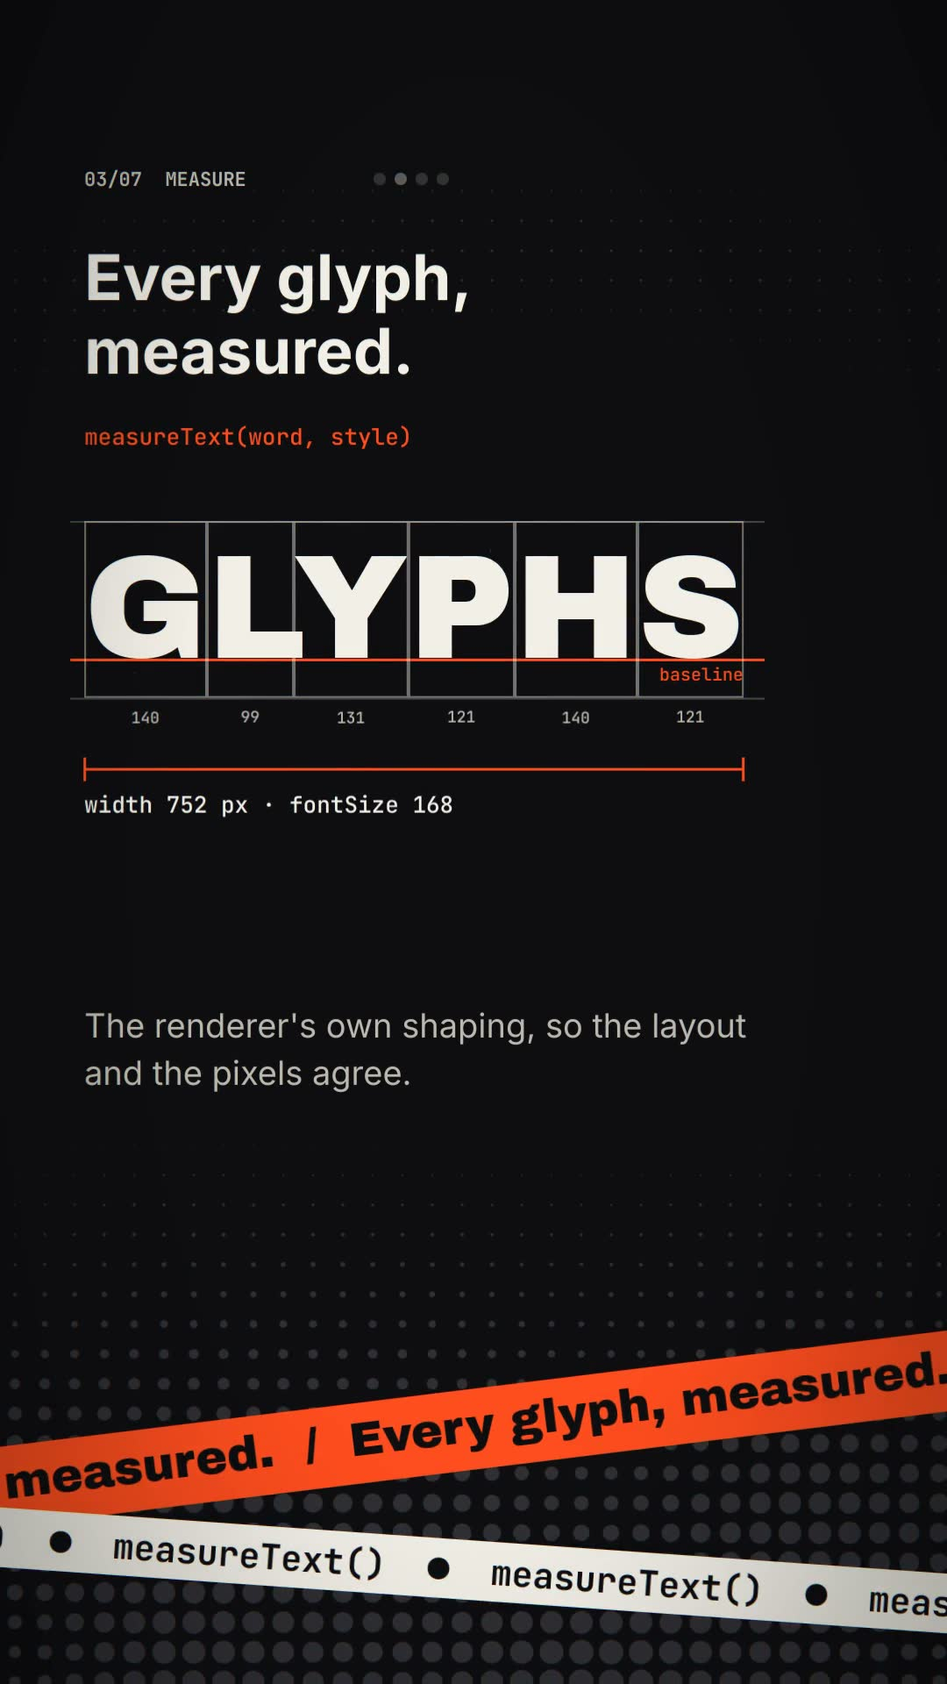
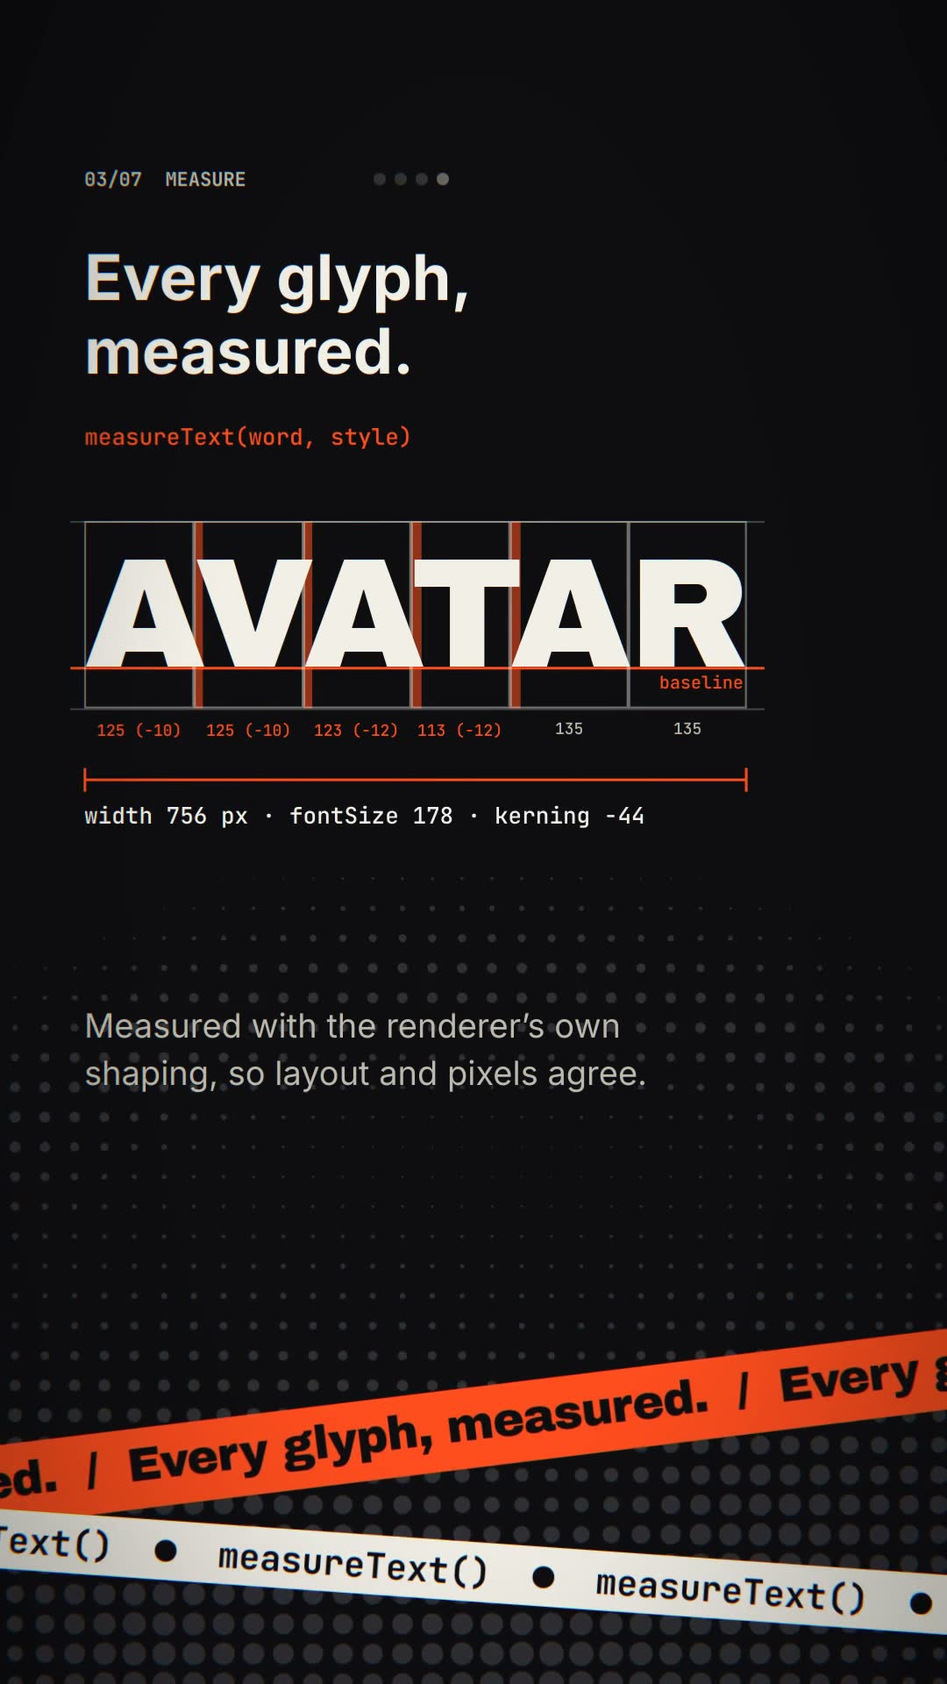
docs(examples): tune shorts-type-en for English type
- Track display type in by 2% of its size; letterSpacing is in pixels, so
  each fit runs twice and the line is drawn with the tracking it was
  measured with.
- Set the hook (and the outro it loops into) as WRITE YOUR / VIDEO IN /
  CODE., so the fitted lines grow from line to line.
- Swap KERN for AVATAR in the measurement scene and mark what kerning
  takes back: each glyph is also measured alone.
- Centre the fitted copy in its box, give the highlights more room and let
  a lit word take its trailing punctuation, and use a typographic
  apostrophe in a complete sentence.

diff --git a/examples/shorts-type-en/measure.ts b/examples/shorts-type-en/measure.ts
@@ -11,14 +11,19 @@ import { textStyle } from './components/Copy';
 // about 0.86 em wide, Inter about 0.55 em) that the measurement replaces.
 
 const fonts = [FONT_SRC];
-const DISPLAY: FitTextStyle = { fontFamily: FONT.display, fontWeight: 400 };
+// Display type is tracked in by 2% of its size, as large headlines usually
+// are. letterSpacing is in pixels, so a fit runs twice: once to find the
+// size, then again with the tracking that size implies. The second size is
+// the one drawn, with exactly the tracking it was measured with.
+const TRACK = -0.02;
+const display = (tracking = 0): FitTextStyle => ({ fontFamily: FONT.display, fontWeight: 400, letterSpacing: tracking });
 
 // A headline line set as large as the column allows, up to `max`.
-export type Line = { text: string; accent?: string; size: number; width: number };
+export type Line = { text: string; accent?: string; size: number; width: number; tracking: number };
 
 function estimateLine(text: string, max: number, width: number = COL.width): Line {
-  const size = Math.min(max, Math.floor(width / (text.length * 0.86)));
-  return { text, size, width: text.length * size * 0.86 };
+  const size = Math.min(max, Math.floor(width / (text.length * 0.84)));
+  return { text, size, width: text.length * size * 0.84, tracking: TRACK * size };
 }
 
 function lines(spec: [text: string, max: number, accent?: string][], width: number = COL.width): Line[] {
@@ -26,19 +31,21 @@ function lines(spec: [text: string, max: number, accent?: string][], width: numb
 }
 
 async function fitLine(line: Line, max: number, width: number = COL.width): Promise<Line> {
-  const fit = await fitText(line.text, {
-    width, height: 4000, minFontSize: 40, maxFontSize: max, maxLines: 1, step: 2, style: DISPLAY, fonts,
+  const fit = (tracking: number) => fitText(line.text, {
+    width, height: 4000, minFontSize: 40, maxFontSize: max, maxLines: 1, step: 2, style: display(tracking), fonts,
   });
-  return { ...line, size: fit.fontSize, width: fit.metrics.width };
+  const first = await fit(0);
+  const tracking = TRACK * first.fontSize;
+  const second = await fit(tracking);
+  return { ...line, size: second.fontSize, width: second.metrics.width, tracking };
 }
 
-// Stacked headlines: each line fitted to the column on its own.
-const HOOK_SPEC: [string, number, string?][] = [['WRITE', 240], ['VIDEO', 240], ['IN CODE.', 240, 'CODE']];
+// Stacked headlines: each line fitted to the column on its own, so a short
+// line comes out large and a long one small.
+const HOOK_SPEC: [string, number, string?][] = [['WRITE YOUR', 240], ['VIDEO IN', 240], ['CODE.', 260, 'CODE']];
 const FRAME_SPEC: [string, number, string?][] = [['A FUNCTION', 200], ['OF ITS', 200], ['NUMBER.', 200, 'NUMBER']];
-const OUTRO_SPEC: [string, number, string?][] = [['WRITE VIDEO', 200], ['IN CODE.', 200, 'CODE']];
 export let hookLines = lines(HOOK_SPEC);
 export let frameLines = lines(FRAME_SPEC);
-export let outroLines = lines(OUTRO_SPEC);
 
 // BEAT: one word per beat, capped so short words do not fill the screen, and
 // fitted a little narrower than the column so the beat's punch still fits.
@@ -49,14 +56,28 @@ const BEAT_SPEC: [string, number][] = [
 export let beatWords = lines(BEAT_SPEC, BEAT_WIDTH);
 
 // MEASURE: a word every other beat, fitted, then measured glyph by glyph.
-export const MEASURE_WORDS = ['GLYPHS', 'WIDTH', 'KERN', 'MEASURED.'];
-export type Measured = { text: string; size: number; metrics: TextMetrics };
+// Kerning shows up as a glyph's advance in the word being shorter than the
+// same glyph's advance on its own, so each glyph is measured alone too.
+export const MEASURE_WORDS = ['GLYPHS', 'AVATAR', 'WIDTH', 'MEASURED.'];
+export type Measured = { text: string; size: number; tracking: number; metrics: TextMetrics; kerns: number[] };
 export let measured: Measured[] = MEASURE_WORDS.map((text) => {
-  const { size } = estimateLine(text, 260);
-  return { text, size, metrics: estimateLayout(text, size, size * 1.2, Infinity, 0.86) };
+  const { size, tracking } = estimateLine(text, 260);
+  return {
+    text, size, tracking, kerns: Array.from(text, () => 0),
+    metrics: estimateLayout(text, size, size * 1.2, Infinity, 0.84),
+  };
 });
 
-// FIT: one copy, four boxes; each gets the largest size that fits it.
+async function measureWord(text: string): Promise<Measured> {
+  const { size, tracking } = await fitLine({ text, size: 0, width: 0, tracking: 0 }, 260);
+  const style = { ...display(tracking), fontSize: size };
+  const metrics = await measureText(text, style, { fonts });
+  const alone = await Promise.all(Array.from(text, (ch) => measureText(ch, style, { fonts })));
+  return { text, size, tracking, metrics, kerns: metrics.glyphs.map((g, i) => g.width - alone[i].width) };
+}
+
+// FIT: one copy, four boxes; each gets the largest size that fits it. The
+// copy is centred in its box, so short last lines read as intended.
 export const FIT_COPY = 'Any copy, any box, as large as it fits.';
 export const FIT_LINE_HEIGHT = 1.1;
 export const FIT_BOXES = [
@@ -69,21 +90,30 @@ export const FIT_BOXES = [
 export const FIT_PAD = 24;
 const inside = (box: { width: number; height: number }) =>
   ({ width: box.width - FIT_PAD * 2, height: box.height - FIT_PAD * 2 });
-const FIT_STYLE: FitTextStyle = { ...DISPLAY, fill: { type: 'solid', color: C.ink } };
+const fitStyle = (tracking: number): FitTextStyle =>
+  ({ ...display(tracking), align: 'center', fill: { type: 'solid', color: C.ink } });
 export type Fit = { fontSize: number; style: TextStyle; height: number };
 export let fits: Fit[] = FIT_BOXES.map((box) => {
   const { width, height } = inside(box);
-  const fontSize = Math.floor(Math.sqrt((width * height) / (FIT_COPY.length * 0.86 * FIT_LINE_HEIGHT)));
-  const style = { ...FIT_STYLE, fontSize, lineHeight: fontSize * FIT_LINE_HEIGHT };
-  return { fontSize, style, height: Math.ceil((FIT_COPY.length * fontSize * 0.86) / width) * fontSize * FIT_LINE_HEIGHT };
+  const fontSize = Math.floor(Math.sqrt((width * height) / (FIT_COPY.length * 0.84 * FIT_LINE_HEIGHT)));
+  const style = { ...fitStyle(TRACK * fontSize), fontSize, lineHeight: fontSize * FIT_LINE_HEIGHT };
+  return { fontSize, style, height: Math.ceil((FIT_COPY.length * fontSize * 0.84) / width) * fontSize * FIT_LINE_HEIGHT };
 });
+
+async function fitBox(box: { width: number; height: number }): Promise<Fit> {
+  const fit = (tracking: number) => fitText(FIT_COPY, {
+    ...inside(box), minFontSize: 28, maxFontSize: 220, lineHeight: FIT_LINE_HEIGHT, step: 2, style: fitStyle(tracking), fonts,
+  });
+  const second = await fit(TRACK * (await fit(0)).fontSize);
+  return { fontSize: second.fontSize, style: second.style, height: second.metrics.height };
+}
 
 // SPAN: one paragraph whose lit word moves; each highlight is placed from the
 // measured glyphs, one bar per line it covers.
 export const SPAN_COPY = 'Same sentence. Light another word, and the meaning moves.';
-export const SPAN_STYLE: TextStyle = { ...textStyle(92, 'body', C.paper, 700), lineHeight: 118 };
+export const SPAN_STYLE: TextStyle = { ...textStyle(92, 'body', C.paper, 700), lineHeight: 140 };
 export type Segment = { x: number; y: number; width: number };
-export let spanLayout = estimateLayout(SPAN_COPY, 92, 118, COL.width, 0.55);
+export let spanLayout = estimateLayout(SPAN_COPY, 92, 140, COL.width, 0.55);
 
 export function segmentsOf(word: string): Segment[] {
   const start = SPAN_COPY.indexOf(word);
@@ -100,19 +130,10 @@ export async function measureAll() {
   try {
     hookLines = await Promise.all(hookLines.map((l, i) => fitLine(l, HOOK_SPEC[i][1])));
     frameLines = await Promise.all(frameLines.map((l, i) => fitLine(l, FRAME_SPEC[i][1])));
-    outroLines = await Promise.all(outroLines.map((l, i) => fitLine(l, OUTRO_SPEC[i][1])));
     beatWords = await Promise.all(beatWords.map((l, i) => fitLine(l, BEAT_SPEC[i][1], BEAT_WIDTH)));
-    measured = await Promise.all(MEASURE_WORDS.map(async (text) => {
-      const { size } = await fitLine({ text, size: 0, width: 0 }, 260);
-      return { text, size, metrics: await measureText(text, { ...DISPLAY, fontSize: size }, { fonts }) };
-    }));
+    measured = await Promise.all(MEASURE_WORDS.map(measureWord));
     spanLayout = await measureText(SPAN_COPY, SPAN_STYLE, { maxWidth: COL.width, fonts });
-    fits = await Promise.all(FIT_BOXES.map(async (box) => {
-      const fit = await fitText(FIT_COPY, {
-        ...inside(box), minFontSize: 28, maxFontSize: 220, lineHeight: FIT_LINE_HEIGHT, step: 2, style: FIT_STYLE, fonts,
-      });
-      return { fontSize: fit.fontSize, style: fit.style, height: fit.metrics.height };
-    }));
+    fits = await Promise.all(FIT_BOXES.map(fitBox));
   } catch (error) {
     // Only inspect.mjs lands here; the estimates above keep every frame evaluable.
     if (!String(error).includes('inspect.mjs')) throw error;

diff --git a/examples/shorts-type-en/scenes/Measure.tsx b/examples/shorts-type-en/scenes/Measure.tsx
@@ -5,8 +5,8 @@ import { BEAT, C, COL, TOP, tint } from '../constants';
 import { measured } from '../measure';
 
 // A new word every other beat, fitted to the column and drawn over its own
-// measurement: one box per glyph advance, the line's top, baseline and
-// bottom, and the total width.
+// measurement: one box per glyph advance (with what kerning took back), the
+// line's top, baseline and bottom, and the total width.
 const STOPS = measured.map((_, i) => ({ at: i * BEAT * 2, index: i }));
 const Y = TOP + 330;
 
@@ -17,6 +17,7 @@ export function Measure() {
   // Read at render time: prepare() replaces the estimates before frame 0.
   const word = measured[stop?.cue.index ?? 0];
   const m = word.metrics;
+  const kerning = Math.round(word.kerns.reduce((sum, k) => sum + k, 0));
   const pop = 1 + 0.05 * (1 - progress(local, 0, 8, Easings.easeOutCubic));
   const span = progress(local, 2, 10, Easings.easeOutExpo);
   const guide = (y: number, color: string, height = 2) =>
@@ -32,15 +33,24 @@ export function Measure() {
         {guide(0, tint(C.paper, 0.25))}
         {guide(m.ascent, C.hot, 3)}
         {guide(m.lineHeight, tint(C.paper, 0.25))}
-        {m.glyphs.map((g, i) => (
-          <Group key={i} x={g.x} opacity={progress(local, 3 + i * 1.5, 4)}>
-            <Rect width={g.width} height={m.lineHeight} stroke={tint(C.paper, 0.45)} strokeWidth={2} />
-            <Copy x={g.width / 2} y={m.lineHeight + 14} ax={0.5} size={18} weight={500} font="mono" color={C.soft}>
-              {String(Math.round(g.width))}
-            </Copy>
-          </Group>
-        ))}
-        <Text y={m.ascent} anchorY="baseline" style={textStyle(word.size, 'display')}>{word.text}</Text>
+        {m.glyphs.map((g, i) => {
+          // A kerned pair pulls the next glyph in: the strip past this box is
+          // what the glyph would have taken on its own.
+          const kern = Math.round(word.kerns[i]);
+          return (
+            <Group key={i} x={g.x} opacity={progress(local, 3 + i * 1.5, 4)}>
+              {kern < 0 && <Rect x={g.width} width={-kern} height={m.lineHeight} fill={tint(C.hot, 0.55)} />}
+              <Rect width={g.width} height={m.lineHeight} stroke={tint(C.paper, 0.45)} strokeWidth={2} />
+              <Copy x={g.width / 2} y={m.lineHeight + 14} ax={0.5} size={18} weight={500} font="mono"
+                color={kern < 0 ? C.hot : C.soft}>
+                {kern < 0 ? `${Math.round(g.width)} (${kern})` : String(Math.round(g.width))}
+              </Copy>
+            </Group>
+          );
+        })}
+        <Text y={m.ascent} anchorY="baseline" style={{ ...textStyle(word.size, 'display'), letterSpacing: word.tracking }}>
+          {word.text}
+        </Text>
         {/* Capitals have no descenders, so the label fits just under the baseline. */}
         <Copy x={COL.width - 8} y={m.ascent + 8} ax={1} size={20} weight={500} font="mono" color={C.hot}
           opacity={span}>
@@ -51,13 +61,13 @@ export function Measure() {
           <Rect x={-1} y={-12} width={3} height={27} fill={C.hot} />
           <Rect x={m.width * span - 2} y={-12} width={3} height={27} fill={C.hot} opacity={span} />
           <Copy y={30} size={26} weight={500} font="mono" color={C.paper} opacity={span}>
-            {`width ${Math.round(m.width)} px · fontSize ${word.size}`}
+            {`width ${Math.round(m.width)} px · fontSize ${word.size}${kerning < 0 ? ` · kerning ${kerning}` : ''}`}
           </Copy>
         </Group>
       </Group>
       <Copy x={COL.x} y={Y + 560} size={38} color={C.soft} lineHeight={54} maxWidth={COL.width}
         opacity={progress(f, BEAT, 8)}>
-        The renderer's own shaping, so the layout and the pixels agree.
+        Measured with the renderer’s own shaping, so layout and pixels agree.
       </Copy>
     </Stage>
   );

diff --git a/examples/shorts-type-en/scenes/Emphasis.tsx b/examples/shorts-type-en/scenes/Emphasis.tsx
@@ -5,12 +5,17 @@ import { Stage } from '../components/Stage';
 import { AREA, BEAT, C, COL, TOP, tint } from '../constants';
 import { SPAN_COPY, SPAN_STYLE, segmentsOf, spanLayout } from '../measure';
 
-// One beat per lit word; on the last cue every word lights at once.
-const LIT = ['Same', 'sentence', 'Light', 'word', 'meaning', 'moves'];
+// One beat per lit word; on the last cue every word lights at once. A word
+// takes its trailing punctuation with it, which the bar's padding would
+// otherwise cover.
+const LIT = ['Same', 'sentence.', 'Light', 'word,', 'meaning', 'moves.'];
 const CUES = [...LIT.map((word, i) => ({ at: i * BEAT, words: [word] })), { at: BEAT * 6, words: LIT }];
 const Y = TOP + 300;
 const SIZE = SPAN_STYLE.fontSize ?? 92;
-const PAD = 10;
+// Room around the glyphs; the line height (measure.ts) leaves a gap between
+// the bars of two lit lines.
+const PAD_X = 20;
+const PAD_Y = 16;
 // Inter's ascenders reach ~0.80 em above the baseline, descenders ~0.24 em below.
 const ABOVE = 0.8;
 const BELOW = 0.24;
@@ -49,8 +54,8 @@ export function Emphasis() {
       <Group x={COL.x} y={Y + 30 * (1 - enter)} opacity={enter}>
         {/* Text and highlights both hang from the measured baselines. */}
         {segments.map((s, i) => (
-          <Rect key={i} x={s.x - PAD} y={s.y + spanLayout.ascent - SIZE * ABOVE - PAD}
-            width={(s.width + PAD * 2) * sweep} height={SIZE * (ABOVE + BELOW) + PAD * 2} fill={C.hot} />
+          <Rect key={i} x={s.x - PAD_X} y={s.y + spanLayout.ascent - SIZE * ABOVE - PAD_Y}
+            width={(s.width + PAD_X * 2) * sweep} height={SIZE * (ABOVE + BELOW) + PAD_Y * 2} fill={C.hot} />
         ))}
         <Text y={spanLayout.ascent} anchorY="baseline" maxWidth={COL.width}
           style={{ ...SPAN_STYLE, fill: { type: 'solid', color: C.grey } }}>

diff --git a/examples/shorts-type-en/components/FitStack.tsx b/examples/shorts-type-en/components/FitStack.tsx
@@ -12,8 +12,8 @@ const GAP = 10;
 
 export const stackHeight = (lines: Line[]) => lines.reduce((h, l) => h + l.size * LEAD + GAP, -GAP);
 
-// Headline lines stacked flush left, each at the size fitText() found for
-// it, so every line runs the full column width. Lines reveal one after
+// Headline lines stacked flush left, each at the size and tracking fitText()
+// found for it, so every line runs the full column width. Lines reveal one after
 // another; `accent` in a line is drawn in the accent colour.
 export function FitStack({ lines, x = 0, y = 0, from = 0, stagger = 4, color = C.paper, accent = C.hot, glow }: {
   lines: Line[]; x?: number; y?: number; from?: number; stagger?: number; color?: string; accent?: string; glow?: CommonProps['glow'];
@@ -28,7 +28,7 @@ export function FitStack({ lines, x = 0, y = 0, from = 0, stagger = 4, color = C
         const cut = line.accent ? line.text.indexOf(line.accent) : -1;
         return (
           <TextReveal key={line.text} y={at} lineHeight={height} baseline={0.86} from={from + i * stagger}
-            durationInFrames={14} style={textStyle(line.size, 'display', color)}>
+            durationInFrames={14} style={{ ...textStyle(line.size, 'display', color), letterSpacing: line.tracking }}>
             {cut < 0 ? line.text : <>
               {line.text.slice(0, cut)}
               <Span style={{ fill: accent }}>{line.accent}</Span>

diff --git a/examples/shorts-type-en/scenes/Outro.tsx b/examples/shorts-type-en/scenes/Outro.tsx
@@ -3,7 +3,7 @@ import { Copy, Tag } from '../components/Copy';
 import { FitStack, stackHeight } from '../components/FitStack';
 import { Stage } from '../components/Stage';
 import { BAR, BEAT, BPM, C, COL, TOP, tint } from '../constants';
-import { outroLines } from '../measure';
+import { hookLines } from '../measure';
 
 const Y = TOP + 180;
 
@@ -13,11 +13,11 @@ export function Outro() {
   const f = useCurrentFrame();
   const { pulse } = useBeat({ bpm: BPM });
   const mark = progress(f, BEAT * 2, 12, Easings.easeOutExpo);
-  const rule = Y + stackHeight(outroLines) + 60;
+  const rule = Y + stackHeight(hookLines) + 60;
   return (
     <Stage bg={C.ink} tone={tint(C.hot, 0.35)} fg={C.paper} accent={C.hot}
-      tapes={['Write video in code.', 'Celesta']} zoom={1.03 - 0.03 * progress(f, 0, BAR * 2, Easings.easeOutCubic)}>
-      <FitStack lines={outroLines} x={COL.x} y={Y} from={-6} stagger={BEAT}
+      tapes={['Write your video in code.', 'Celesta']} zoom={1.03 - 0.03 * progress(f, 0, BAR * 2, Easings.easeOutCubic)}>
+      <FitStack lines={hookLines} x={COL.x} y={Y} from={-6} stagger={BEAT}
         glow={{ color: tint(C.hot, 0.35 + 0.4 * pulse), blur: 24 }} />
       <Rect x={COL.x} y={rule} width={COL.width * mark} height={4} fill={C.dim} />
       <Copy x={COL.x} y={rule + 60 + 40 * (1 - mark)} size={176} weight={700} font="mono" opacity={mark}

diff --git a/examples/shorts-type-en/components/Copy.tsx b/examples/shorts-type-en/components/Copy.tsx
@@ -21,13 +21,15 @@ export type CopyProps = {
   scale?: number;
   lineHeight?: number;
   maxWidth?: number;
+  // letterSpacing, in pixels.
+  tracking?: number;
 };
 
 export function Copy({ children, x = 0, y = 0, size, font = 'body', weight = 400, color = C.paper,
-  ax = 0, ay = 0, opacity = 1, scale, lineHeight, maxWidth }: CopyProps) {
+  ax = 0, ay = 0, opacity = 1, scale, lineHeight, maxWidth, tracking }: CopyProps) {
   return (
     <Text x={x} y={y} anchorX={ax} anchorY={ay} opacity={opacity} scale={scale} maxWidth={maxWidth}
-      style={{ ...textStyle(size, font, color, weight), lineHeight }}>
+      style={{ ...textStyle(size, font, color, weight), lineHeight, letterSpacing: tracking }}>
       {children}
     </Text>
   );

diff --git a/examples/shorts-type-en/scenes/Hook.tsx b/examples/shorts-type-en/scenes/Hook.tsx
@@ -16,7 +16,7 @@ export function Hook() {
   const height = stackHeight(hookLines);
   return (
     <Stage bg={C.ink} tone={tint(C.hot, 0.35)} fg={C.paper} accent={C.hot}
-      tapes={['Write video in code.', 'React + TypeScript → MP4']}
+      tapes={['Write your video in code.', 'React + TypeScript → MP4']}
       zoom={1 + 0.035 * progress(f, 0, BAR * 2) + 0.012 * pulse}>
       <Tag x={COL.x} y={Y - 64} opacity={progress(f, 4, 8)}>{'// film.tsx'}</Tag>
       <FitStack lines={hookLines} x={COL.x} y={Y} from={-8} stagger={3}

diff --git a/examples/shorts-type-en/scenes/Fit.tsx b/examples/shorts-type-en/scenes/Fit.tsx
@@ -20,7 +20,7 @@ export function Fit() {
     <Stage bg={C.sun} tone={tint(C.ink, 0.18)} fg={C.ink} accent={C.hot}
       tapes={['Fit the box.', 'fitText()']}>
       <TextReveal x={COL.x} y={TOP} lineHeight={116} baseline={0.86} from={-6} stagger={4}
-        style={textStyle(116, 'display', C.ink)}>
+        style={{ ...textStyle(116, 'display', C.ink), letterSpacing: -0.02 * 116 }}>
         {'FIT THE\nBOX.'}
       </TextReveal>
       <Group x={COL.x} y={BOX_Y} scale={pop} opacity={progress(f, -2, 6)}>

diff --git a/examples/shorts-type-en/components/Tape.tsx b/examples/shorts-type-en/components/Tape.tsx
@@ -27,6 +27,7 @@ export function Tape({ y, rotation, text, bg, fg, speed, frame, size = 54, mono 
       <Rect x={-W} y={-height / 2} width={W * 2} height={height} fill={bg} />
       <Text x={-W - 1200 - frame * speed} anchorY={0.5}
         style={{ fontFamily: mono ? FONT.mono : FONT.display, fontSize: size, fontWeight: mono ? 700 : 400,
+          letterSpacing: mono ? 0 : -0.02 * size,
           fill: { type: 'solid', color: fg } }}>
         {line}
       </Text>

diff --git a/examples/shorts-type-en/scenes/Beat.tsx b/examples/shorts-type-en/scenes/Beat.tsx
@@ -34,6 +34,7 @@ export function Beat() {
       <Burst x={middle} y={TOP + look.y} t={(f - i * BEAT) / BEAT} color={accent} seed={i} />
       <Group blur={18 * (1 - drop)}>
         <Copy x={x} y={TOP + look.y - 60 * (1 - drop)} ax={look.ax} ay={0.5} size={word.size} font="display"
+          tracking={word.tracking}
           color={look.fg} scale={1 + 0.05 * pulse}>
           {word.text}
         </Copy>

diff --git a/examples/shorts-type-en/README.md b/examples/shorts-type-en/README.md
@@ -21,19 +21,22 @@ on a downbeat.
 
 | Time | What happens | APIs |
 | --- | --- | --- |
-| 0–4 s | "WRITE / VIDEO / IN CODE." The reveal starts before frame 0, so the first frame already shows the opening line; the headline is up by frame 12 | `fitText` (one size per line), `TextReveal`, `<Span>`, `Camera` |
+| 0–4 s | "WRITE YOUR / VIDEO IN / CODE.", each line larger than the last. The reveal starts before frame 0, so the first frame already shows the opening line; the headline is up by frame 12 | `fitText` (one size per line), `TextReveal`, `<Span>`, `Camera` |
 | 4–8 s | "Every frame is A FUNCTION OF ITS NUMBER.", one line per beat, then the frame number itself | `fitText`, `TextReveal`, `useCurrentFrame` |
-| 8–12 s | A new word every other beat, drawn over its own measurement: a box per glyph advance, the line's top, baseline and bottom, the total width | `measureText`, `fitText`, `useCue` |
-| 12–16 s | The box changes shape every other beat; the same copy refills it as large as it fits | `fitText`, `useCue` |
-| 16–20 s | The lit word moves every beat; the highlight bars are placed from the measured glyphs | `<Span>`, `measureText`, `useCue`, `interpolateColor` |
+| 8–12 s | A new word every other beat, drawn over its own measurement: a box per glyph advance, the line's top, baseline and bottom, the total width. "AVATAR" shows kerning: each glyph is also measured alone, and what its pair took back is marked | `measureText`, `fitText`, `useCue` |
+| 12–16 s | The box changes shape every other beat; the same copy refills it, centred, as large as it fits | `fitText`, `useCue` |
+| 16–20 s | The lit word moves every beat; the highlight bars are placed from the measured glyphs, and a word takes its trailing punctuation with it | `<Span>`, `measureText`, `useCue`, `interpolateColor` |
 | 20–24 s | One word per beat: "CUT / ON / THE / BEAT. / WRITE. / SAVE. / WATCH. / SHIP." | `useBeat`, `fitText` |
 | 24–28 s | The opening line and the wordmark, on the opening background, so a looping player cuts back into the hook without a jump | `fitText`, `TextReveal` |
 
 Headlines are stacked line by line (`components/FitStack.tsx`): `fitText()`
 finds, for each line on its own, the largest Archivo Black size that fits the
 column on one line, so every line runs the full width and the sizes give the
-hierarchy. English has no phrase line breaking to show, so the Japanese
-version's `lineBreak: 'phrase'` scene is replaced by the measurement scene.
+hierarchy. Display type is tracked in by 2% of its size. `letterSpacing` is in
+pixels, so each fit runs twice: once for the size, then with the tracking that
+size implies, and the line is drawn with exactly the tracking it was measured
+with. English has no phrase line breaking to show, so the Japanese version's
+`lineBreak: 'phrase'` scene is replaced by the measurement scene.
 
 ## Safe area
 
